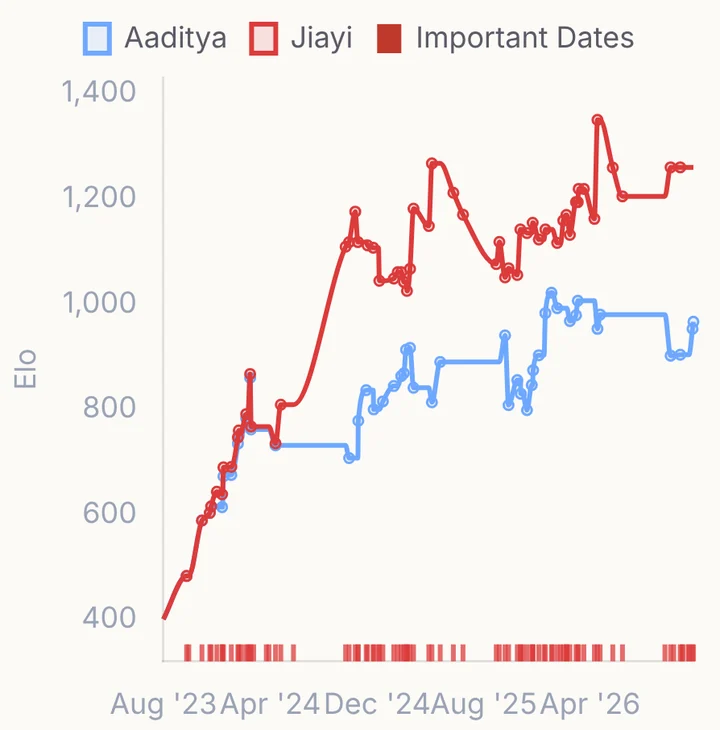
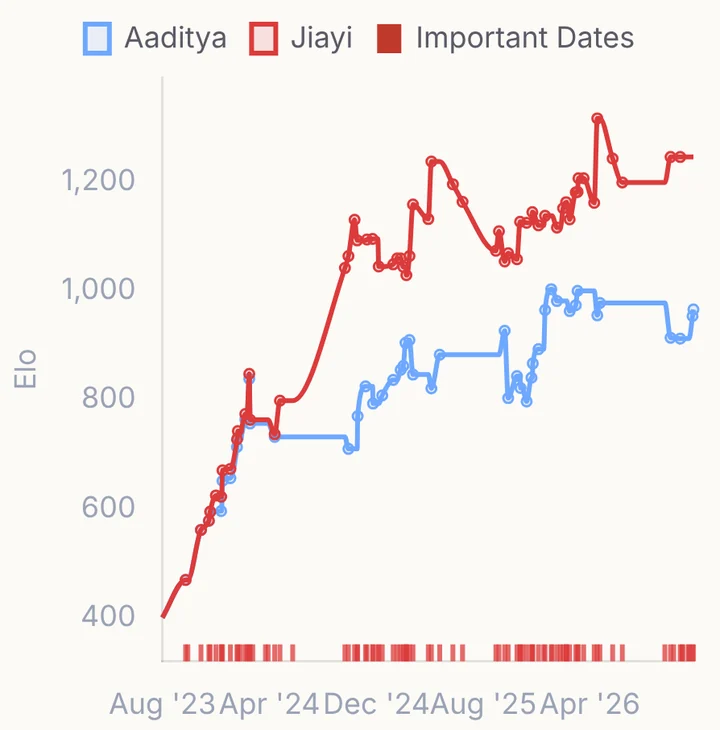
Dashboard: drop the "Active this season" card
Total, Average Elo and Tournaments now sit in one row at every width.
The landing page screenshots are retaken to match, with the stepped numbers.

Claude-Session: https://claude.ai/code/session_01TYYdymDdHEusXAhUbedRey

diff --git a/src/pages/DashboardPage.tsx b/src/pages/DashboardPage.tsx
@@ -6,7 +6,6 @@ import {
     pairingLabel,
     rankDebaters,
     rankTeams,
-    seasonLabel,
 } from '../domain';
 import { AnimatedNumber } from '../components/AnimatedNumber';
 import { Card, EmptyState, PageHeader, StatCard } from '../components/Card';
@@ -14,7 +13,7 @@ import { EloChart } from '../components/EloChart';
 import { useAppData } from '../state/AppDataProvider';
 
 export function DashboardPage() {
-    const { debaters, teams, practiceRounds, tournaments, season, activeIds, loading, error } =
+    const { debaters, teams, practiceRounds, tournaments, activeIds, loading, error } =
         useAppData();
     // Active = competed in the latest season with results
     const ranked = rankDebaters(debaters, practiceRounds, { only: activeIds });
@@ -47,12 +46,8 @@ export function DashboardPage() {
         <div>
             <PageHeader title="Dashboard" />
             {loading && <p className="note">Refreshing…</p>}
-            <div className={`grid ${hasPractice ? 'grid-5' : 'grid-4'} stat-grid`}>
+            <div className={`grid ${hasPractice ? 'grid-4' : 'grid-3'} stat-grid`}>
                 <StatCard label="Total" value={<AnimatedNumber value={onTeam} />} />
-                <StatCard
-                    label={season ? `Active in ${seasonLabel(season)}` : 'Active people'}
-                    value={<AnimatedNumber value={active.length} />}
-                />
                 <StatCard
                     label="Average Elo"
                     value={<AnimatedNumber value={Math.round(avg)} />}

diff --git a/src/pages/LandingPage.tsx b/src/pages/LandingPage.tsx
@@ -14,7 +14,7 @@ const SHOTS = {
     profile: { w: 1600, h: 933, alt: 'A debater’s profile: current and peak Elo, tournaments, partners and an Elo history chart' },
     tournaments: { w: 1600, h: 1153, alt: 'The tournament list with its search box: each tournament’s entries and rating changes' },
     tournament: { w: 1300, h: 580, alt: 'NYSFL States results: every pair’s raw wins and each person’s rating change' },
-    phone: { w: 780, h: 1688, alt: 'The dashboard on a phone: four figures in two rows and the top of the board' },
+    phone: { w: 780, h: 1688, alt: 'The dashboard on a phone: three figures across and the top of the board' },
     compare: { w: 1500, h: 953, alt: 'Analytics comparing two debaters’ Elo across four seasons' },
 } as const;
 type ShotName = keyof typeof SHOTS;

diff --git a/src/styles/global.css b/src/styles/global.css
@@ -1094,6 +1094,10 @@ input[type='file']::file-selector-button:hover {
         grid-template-columns: 1fr;
     }
 
+    .stat-grid.grid-3 {
+        grid-template-columns: repeat(3, minmax(0, 1fr));
+    }
+
     .stat-grid.grid-4,
     .stat-grid.grid-5 {
         grid-template-columns: repeat(2, minmax(0, 1fr));
